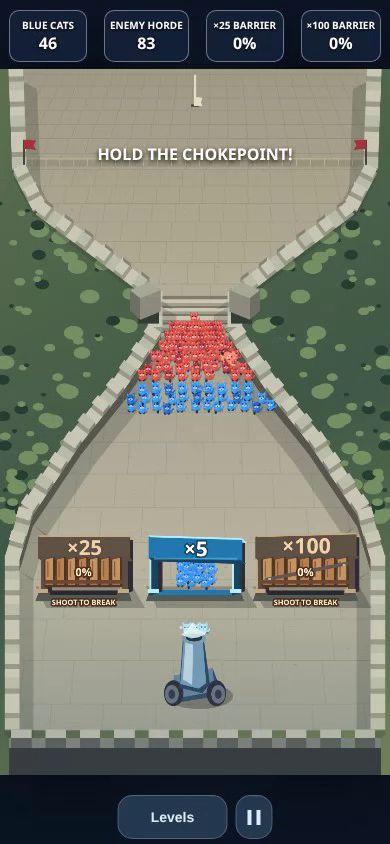
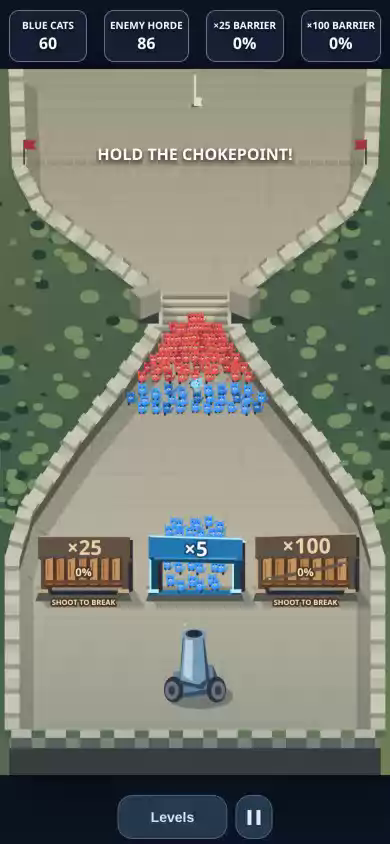
Document army scale measurements and strengthen portrait validation

diff --git a/scripts/profile-army-individuality.js b/scripts/profile-army-individuality.js
@@ -1,9 +1,15 @@
 import { chromium, webkit } from "@playwright/test";
 import { mkdir } from "node:fs/promises";
-import { join } from "node:path";
+import { join, resolve } from "node:path";
+import { pathToFileURL } from "node:url";
+import { scaleCandidate } from "./army-scale-candidates.js";
 
 const engine = process.argv[2] === "webkit" ? webkit : chromium;
 const output = process.argv[3];
+const candidate = process.env.PROFILE_CANDIDATE;
+const candidateLevels = candidate
+  ? (await import(pathToFileURL(resolve(process.env.PROFILE_BASELINE, "src/levels.js")))).LEVELS
+  : null;
 const viewport = { width: 390, height: 844 };
 const executablePath = engine === chromium ? process.env.CHROMIUM_PATH : undefined;
 const browser = await engine.launch({ executablePath });
@@ -12,8 +18,10 @@ try {
   const page = await browser.newPage({ viewport, isMobile: true, hasTouch: true, deviceScaleFactor: 2 });
   await page.goto(process.env.SIEGE_URL ?? "http://127.0.0.1:4173");
   const report = {};
-  for (let level = 1; level <= 4; level++) {
-    const setup = async number => {
+  const levels = (process.env.PROFILE_LEVELS ?? "1,2,3,4").split(",").map(Number);
+  for (const level of levels) {
+    const override = candidate ? scaleCandidate(candidateLevels[level - 1], candidate) : null;
+    const setup = async ({ number, override }) => {
       const [{ createGame }, { createMotion }, { createRenderer }, { createDualRenderer },
         { createDualBattlefield }, { createState }, { LEVELS }, { createAim }, { dualAim },
         { purrapultAim }, { meowmenAim }] = await Promise.all([
@@ -22,7 +30,7 @@ try {
         import("/src/levels.js"), import("/tests/helpers/strategies.js"), import("/tests/helpers/dual-strategies.js"),
         import("/tests/helpers/purrapult.js"), import("/tests/helpers/meowmen.js"),
       ]);
-      const level = LEVELS[number - 1];
+      const level = override ?? LEVELS[number - 1];
       const canvas = document.querySelector("#game");
       document.querySelector("#menu").hidden = true;
       const dt = 1 / 60;
@@ -31,7 +39,7 @@ try {
       let renderer, state, lanes, step, stage;
       if (dual) {
         state = createState(level);
-        const game = createDualBattlefield({ state, onEvent: (event, sim) => renderer.receive(event, sim) });
+        const game = createDualBattlefield({ state, level, onEvent: (event, sim) => renderer.receive(event, sim) });
         renderer = createDualRenderer(state, canvas, game);
         game.reset();
         ({ lanes } = game.state);
@@ -91,13 +99,17 @@ try {
         },
       };
     };
-    await page.evaluate(setup, level);
+    await page.evaluate(setup, { number: level, override });
     const checkpoints = await page.evaluate(() => window.scaleProfile.checkpoints());
+    if (process.env.PROFILE_PROGRESS) console.error(`${engine.name()} level ${level}, ${checkpoints.length} checkpoints`);
     await page.reload();
-    await page.evaluate(setup, level);
+    await page.evaluate(setup, { number: level, override });
     report[level] = {};
     let tick = 0;
+    const included = process.env.PROFILE_CHECKPOINTS?.split(",");
     for (const checkpoint of checkpoints.sort((a, b) => a.tick - b.tick)) {
+      if (included && !included.includes(checkpoint.name)) continue;
+      if (process.env.PROFILE_PROGRESS) console.error(checkpoint.name);
       report[level][checkpoint.name] = await page.evaluate(async advance => {
         const { step, state, lanes, renderer, canvas, stage } = window.scaleProfile;
         for (let i = 0; i < advance; i++) step();
@@ -132,7 +144,11 @@ try {
         }));
         const frameMs = [], canvasMs = [];
         await new Promise(done => {
-          let last;
+          let last, handle;
+          const timeout = setTimeout(() => {
+            cancelAnimationFrame(handle);
+            done();
+          }, 2500);
           function frame(now) {
             const drawStart = performance.now();
             renderer.draw();
@@ -141,12 +157,16 @@ try {
               canvasMs.push(performance.now() - drawStart);
             }
             last = now;
-            if (frameMs.length < 24) requestAnimationFrame(frame);
-            else done();
+            if (frameMs.length < 24) handle = requestAnimationFrame(frame);
+            else {
+              clearTimeout(timeout);
+              done();
+            }
           }
-          requestAnimationFrame(frame);
+          handle = requestAnimationFrame(frame);
         });
         function quantiles(values) {
+          if (!values.length) return [null, null];
           values.sort((a, b) => a - b);
           return [0.5, 0.95].map(q => +values[Math.floor(q * (values.length - 1))].toFixed(2));
         }
@@ -154,14 +174,14 @@ try {
           { blue: lane.blueTotal, red: lane.redTotal, front: lane.front }]));
         const memory = performance.memory?.usedJSHeapSize ?? null;
         return { time: state.t, mode: state.mode, ...stage(), active, represented,
-          frameMs: quantiles(frameMs), canvasMs: quantiles(canvasMs), usedJSHeapSize: memory };
+          samples: frameMs.length, frameMs: quantiles(frameMs), canvasMs: quantiles(canvasMs), usedJSHeapSize: memory };
       }, checkpoint.tick - tick);
       tick = checkpoint.tick;
       if (output && ["opening", "first-reinforcement", "peak", "outcome", "phalanx", "encirclement"].includes(checkpoint.name))
-        await page.screenshot({ path: join(output, `level-${level}-${checkpoint.name}.png`) });
+        await page.screenshot({ scale: "css", path: join(output, `level-${level}-${checkpoint.name}.png`) });
     }
   }
-  console.log(JSON.stringify({ browser: engine.name(), version: browser.version(), viewport, report }, null, 2));
+  console.log(JSON.stringify({ browser: engine.name(), version: browser.version(), viewport, candidate, report }, null, 2));
 } finally {
   await browser.close();
 }

diff --git a/tests/browser/playthrough.spec.js b/tests/browser/playthrough.spec.js
@@ -54,8 +54,8 @@ test("balanced reinforcements reverse the battle twice and clear the field", asy
     expect(s.work[0]).toBeGreaterThan(0);
     expect(s.work[1]).toBe(0);
   }
-  await expect(page.locator("#gate99")).toHaveText("OPEN");
-  await expect(page.locator("#gate999")).toHaveText("0%");
+  await expect(page.locator("#gate25")).toHaveText("OPEN");
+  await expect(page.locator("#gate100")).toHaveText("0%");
   const atUnlock = s.front;
   milestones.push({ event: "×25 unlocked", ...battlefield(s) });
 
@@ -63,7 +63,7 @@ test("balanced reinforcements reverse the battle twice and clear the field", asy
   for (let i = 0; i < 9; i++) {
     s = await hold(90, 1850);
     if (i === 1) {
-      expect(s.front).toBeLessThan(atUnlock - 25);
+      expect(s.front).toBeLessThan(atUnlock + 10);
       expect(s.squads.some((q) => q.mult === 25)).toBe(true);
       milestones.push({ event: "×25 reverses the battle", ...battlefield(s) });
       await page.screenshot({
@@ -87,9 +87,9 @@ test("balanced reinforcements reverse the battle twice and clear the field", asy
     expect(s.work[1]).toBeGreaterThan(damage);
     if (s.gates[2].open) break;
   }
-  await expect(page.locator("#gate999")).toHaveText("OPEN");
+  await expect(page.locator("#gate100")).toHaveText("OPEN");
   expect(s.finalActivated).toBe(false);
-  expect(s.front).toBeGreaterThan(milestones[1].front + 100);
+  expect(s.front).toBeGreaterThan(milestones[1].front + 55);
   expect(s.redTotal).toBeGreaterThan(milestones[1].red * 2);
   const frontBefore = s.front;
   milestones.push({ event: "×100 unlocked", ...battlefield(s) });
@@ -119,7 +119,7 @@ test("balanced reinforcements reverse the battle twice and clear the field", asy
   await page.clock.runFor(17000);
   s = await snapshot(page);
   expect(s.front).toBeLessThan(frontBefore - 130);
-  expect(s.blueTotal).toBeGreaterThan(10000);
+  expect(s.blueTotal).toBeGreaterThan(4000);
   expect(s.redTotal).toBeLessThan(arrival.redTotal * 0.75);
   expect(s.redTotal).toBeGreaterThan(0);
   milestones.push({ event: "×100 counterattack", ...battlefield(s) });
@@ -213,7 +213,7 @@ test("exclusive ×5 initially advances before the horde overtakes it", async ({
   expect(pressure.front).toBeGreaterThan(initial.front + 50);
   expect(pressure.redTotal).toBeGreaterThan(early.redTotal * 2);
   expect(pressure.work).toEqual([0, 0]);
-  await expect(page.locator("#gate99")).toHaveText("0%");
+  await expect(page.locator("#gate25")).toHaveText("0%");
   await page.screenshot({ path: testInfo.outputPath("phase-1-retreat.png") });
 
   await advanceUntil(page, (s) => s.mode === "end", 35);

diff --git a/tests/army-visual.test.js b/tests/army-visual.test.js
@@ -173,3 +173,39 @@ test("30, 60 and 150 individual cats expand the formation at mobile scale", () =
     previousDepth = depth;
   }
 });
+
+test("one extra cat keeps the earlier individual slots near their prior positions", () => {
+  const state = createState();
+  const { figures, draws } = painter();
+  const { contact } = createMotion();
+  state.mode = "playing";
+  state.redTotal = 0;
+  state.blueTotal = 60;
+  figures.blueArmy(state, 0, contact, []);
+  const before = draws.splice(0).reverse();
+  state.blueTotal++;
+  figures.blueArmy(state, 0, contact, []);
+  const after = draws.reverse();
+  for (const [index, slot] of before.entries()) {
+    assert.ok(Math.abs(slot.x - after[index].x) < 1);
+    assert.ok(Math.abs(slot.y - after[index].y) < 2);
+  }
+});
+
+test("overlapping final waves keep older columns visible using bounded draw calls", () => {
+  const state = createState();
+  const { figures, draws } = painter();
+  const { contact } = createMotion();
+  state.mode = "playing";
+  state.blueTotal = 6000;
+  state.squads = Array.from({ length: 36 }, (_, index) => ({
+    x: 329, y: 415, entryY: 565, count: 100, mult: 100, slot: index % 3 - 1,
+    phase: index * 0.1, marchTime: 1.15,
+  }));
+  const before = structuredClone(state);
+  figures.setClock(2);
+  figures.blueArmy(state, 0, contact, []);
+  assert.ok(draws.length < 700);
+  assert.ok(draws.reduce((sum, draw) => sum + draw.represented, 0) > 1000);
+  assert.deepEqual(state, before);
+});

diff --git a/tests/army-movement.test.js b/tests/army-movement.test.js
@@ -130,14 +130,14 @@ test("a receiving slot beyond an obstructed gate uses a complementary fade", () 
   assert.ok(tail.join.started[0] >= 2.26);
 });
 
-test("overlapping ×99 and ×999 handoffs stay bounded and reset when leaving a level", () => {
+test("overlapping ×25 and ×100 handoffs stay bounded and reset when leaving a level", () => {
   const motion = createMotion();
   const state = createState();
   state.mode = "playing";
   state.blueTotal = 1000;
   step(motion, state, 0);
   for (let i = 0; i < 28; i++) {
-    const q = wave(i % 2 ? 99 : 999, i % 2 ? 90 : 329);
+    const q = wave(i % 2 ? 25 : 100, i % 2 ? 90 : 329);
     state.blueTotal += q.count;
     motion.receive("arrival", 0.1, q, state.front);
   }
@@ -145,7 +145,7 @@ test("overlapping ×99 and ×999 handoffs stay bounded and reset when leaving a 
   const occupied = new Set();
   assert.ok(motion.tails.length <= 12);
   for (const { join } of motion.tails) {
-    assert.ok(join.fieldCount + join.reserveCount <= 24);
+    assert.ok(join.fieldCount + join.reserveCount <= 32);
     for (const [prefix, start, length] of [
       ["f", join.field, join.fieldCount], ["r", join.reserve, join.reserveCount],
     ]) {

diff --git a/index.html b/index.html
@@ -27,8 +27,8 @@
         <div class="stat">BLUE CATS<b id="blueCount">0</b></div>
         <div class="stat">ENEMY HORDE<b id="redCount">0</b></div>
         <div id="barrierHud" class="barrier-hud">
-          <div class="stat">×25 BARRIER<b id="gate99">0%</b></div>
-          <div class="stat">×100 BARRIER<b id="gate999">0%</b></div>
+          <div class="stat">×25 BARRIER<b id="gate25">0%</b></div>
+          <div class="stat">×100 BARRIER<b id="gate100">0%</b></div>
         </div>
         <div id="siegeHud" hidden>
           <div class="stat">BLUE ARMY<b id="siegeBlueCount">0</b></div>
@@ -53,7 +53,7 @@
             move your cannon. It fires automatically — never tap to shoot.<br /><br />🔵
             <strong>×5</strong> holds the horde.<br />🟠
             <strong>×25</strong> unlocks when your cats break its barricade.<br />🟡
-            <strong>×100</strong> takes longer, but wins the war.<br /><br /><strong
+            <strong>×100</strong> takes longer and sends the largest wave.<br /><br /><strong
               >YOU must break the barricades:</strong
             >
             aim at the locked ×25 or ×100 gate to damage its wooden barrier.

diff --git a/tests/browser/meowmen.spec.js b/tests/browser/meowmen.spec.js
@@ -14,15 +14,15 @@ test("Meowmen selection, defeat, replay, victory and progress on mobile", async 
   await select(LEVEL_THREE).click();
 
   await aim(LEVEL_THREE.support.x);
+  await advanceUntil(page, (s) => s.danger.flashUntil > s.t, 4, 100);
+  await expect(page.locator("#danger")).toContainText("AIM AT ×5");
   const flight = await advanceUntil(page, (s) => s.support.shot !== null, 5, 100);
   await expect(page.locator("#banner")).toHaveText("MEOWMEN BARRAGE STARTED!");
   expect(flight.support.shot).toMatchObject({
     originX: LEVEL_THREE.support.x, originY: LEVEL_THREE.support.y, arrows: 6,
   });
   await advanceUntil(page, (s) => s.support.impacts >= 3, 4, 100);
-  await advanceUntil(page, (s) => s.danger.flashUntil > s.t, 12, 100);
-  await expect(page.locator("#danger")).toContainText("AIM AT ×5");
-  const defeated = await advanceUntil(page, (s) => s.mode === "end", 10, 200);
+  const defeated = await advanceUntil(page, (s) => s.mode === "end", 25, 200);
   expect(defeated.support.damage).toBeGreaterThan(0);
   expect(defeated.support.shot).toBeNull();
   await expect(page.locator("#resultLevel")).toHaveText("Level 3 · The Meowmen");

diff --git a/src/main.js b/src/main.js
@@ -276,7 +276,7 @@ const siegeHud = ["siegeBlueCount", "siegeRedCount", "siegeLeft", "siegeRight"].
 function updateSiegeHud() {
   const { blue, red } = siegePopulation(dual.state);
   const { west, east } = siegeStatus(dual.state);
-  const values = [compactArmy.format(Math.floor(blue)), compactArmy.format(Math.ceil(red)), west, east];
+  const values = [compactArmy.format(Math.ceil(blue)), compactArmy.format(Math.ceil(red)), west, east];
   siegeHud.forEach((node, index) => {
     if (node.textContent !== values[index]) node.textContent = values[index];
   });

diff --git a/scripts/capture-arcade-combat.js b/scripts/capture-arcade-combat.js
@@ -37,7 +37,7 @@ async function capture(browser, plan) {
     await page.locator("#chooseLevel").click();
     await page.locator(`[data-level="${plan.id}"]`).click();
     const box = await page.locator("#game").boundingBox();
-    await page.screenshot({ path: resolve(output, plan.name + "-opening.png") });
+    await page.screenshot({ path: resolve(output, plan.name + "-opening.png"), scale: "css" });
     const client = await context.newCDPSession(page);
     let result;
     let showedSupport = false;

diff --git a/tests/browser/purrapult.spec.js b/tests/browser/purrapult.spec.js
@@ -120,8 +120,8 @@ test("artillery-assisted defense wins Level 2 and persists its completion", asyn
       await mark("impact", "06-yarn-impact.png", s);
     }
     if (
-      s.finalActivated &&
-      s.support.damage > 18000 &&
+      s.gates[1].open &&
+      s.support.damage > 700 &&
       s.front < 285 &&
       !seen.has("counterattack")
     ) {

diff --git a/docs/army-scale-individuality.md b/docs/army-scale-individuality.md
@@ -33,7 +33,7 @@ We reused cannon policies and recorded fixed-step outcomes on all four levels. T
 | 1 · Balanced C | Win 87.75 s / 122,525 | Win 93.60 s / 24,337 | Win 29.45 s / 735 | Win 93.60 s / 24,337 |
 | 2 · Artillery first | Win 80.78 s / 90,969 | Win 52.63 s / 2,039 | Win 26.57 s / 222 | Win 52.63 s / 2,039 |
 | 3 · Balanced | Win 84.65 s / 131,340 | Win 95.73 s / 29,692 | Win 31.90 s / 533 | Win 95.73 s / 29,692 |
-| 4 · Adaptive with missed shots | Win 103.23 s / 115,649 east | Win 67.73 s / 1,901 east | Win 69.27 s / 662 east | Win about 70 s / about 2,000 east |
+| 4 · Adaptive with missed shots | Win 103.23 s / 115,649 east | Win 67.73 s / 1,901 east | Win 69.27 s / 662 east | Win 69.47 s / 1,910 east |
 
 - **The Last Stand.** Starter camping still loses. The aggressive candidate allows it to win in 22.62 s. Sustained ×25 can now win if used early enough. Diverting shots toward ×100 can expose the line, and the balanced C policy uses the arriving ×100 wave to reverse a late retreat. In that replay the first and last barricades open at 17.12 and 56.87 s. Supply closes at 92.25 s. Blue and red melee losses average about 169 and 153 per second, down from 2,055 and 1,475.
 - **The Purrapult.** The area pocket still limits casualties on first contact, and its flight and reload remain the same. The impact animation uses force relative to the weapon's damage budget. Artillery first clears the route with one gate upgrade and about 1,538 artillery casualties. Gates first can win with both upgrades. Shooting the crew barricade and ignoring the infantry still loses.
@@ -60,7 +60,42 @@ The camera, seam, flight and handoff affect the number of complete atlas draws o
 | --- | --- |
 | ![The first starter files reach the blue formation](evidence/army-scale-individuality/selected-reinforcement.png) | ![Blue horde fills the corridor in the victory advance](evidence/army-scale-individuality/selected-victory.png) |
 
+![East breakthrough as the flank reaches the west rear](evidence/army-scale-individuality/selected-encirclement.png)
+
 The recordings use public level selection and cannon drag controls. The early HUD in both opening screenshots includes the first volleys already on the way. The selected victory still shows in-transit cats in the HUD. The clips and timing JSON are kept outside Git.
+
+## Rendering and performance measurements
+
+The opening count can be checked directly in both engines. In Level 1 the original red atlas tile averaged 15 CSS pixels wide and occupied 19 vertical and 17 horizontal bins. The new red tile averages 17 pixels, with eight vertical and 13 horizontal bins. Summed atlas area falls from 15.8% to 7.0% of the viewport. The blue opening uses 34 tiles, four vertical and 17 horizontal bins, and 3.3% viewport area. These are occupied position bins including movement, at an eight-world-unit row interval and a ten-unit column interval. They estimate screen coverage even when the visible ranks stagger or overlap.
+
+| Opening | Blue active / individual / silhouettes | Red active / individual / silhouettes |
+| --- | ---: | ---: |
+| Level 1, baseline | 0 / 0 / 0 | 2,225 / 231 / 232 |
+| Level 1, selected | 34 / 34 / 0 | 78 / 78 / 0 |
+| Level 4, baseline | 915 / 288 / 233 | 1,230 / 288 / 313 |
+| Level 4, selected | 86 / 86 / 0 | 173 / 173 / 0 |
+
+At the selected Level 1 peak, batching older overlapping reinforcement files preserves 2,387 blue impressions and brings standalone blue atlas draws from 1,775 in the unbatched prototype to 431. The remainder are reserve or travelling silhouettes. The 23,000–30,000 peak armies in the balanced corridor replays still require abstraction. The redesigned scale spends its larger individual sprite budget on the opening and uses the stamp atlas for the dense rear and older marching files.
+
+The profiling reports include active populations, visible sprite submissions, silhouette counts, atlas size, occupied bins and density at each reached checkpoint. The opening counts for Levels 2 and 3 also include their two- and six-cat support crews in the blue draw totals. At later checkpoints the draw totals include combat reactions and transit. Use the simulation report for the active-force representation ratio.
+
+The paired runs below use Chromium 156 and WebKit 26 on the shared Linux host. Each cell gives Canvas p50/p95 followed by animation-frame p50/p95 in milliseconds. WebKit produced fewer samples before the capture window expired. Its Level 4 opening produced fewer than four samples per build, so that row omits those timing estimates.
+
+| Scene | Chromium M22 | Chromium M23 | WebKit M22 | WebKit M23 |
+| --- | ---: | ---: | ---: | ---: |
+| Level 1 opening | 3.2/8.8 · 49.9/83.4 | 1.6/13.3 · 49.9/83.3 | 4/13 · 210/302 | 2/36 · 251/303 |
+| First reinforcement | 8.3/15.4 · 50/100 | 7.8/26.3 · 100/150 | 3/13 · 224/296 | 18/36 · 336/354 |
+| Near the literal limit | 8.3/24.2 · 50/66.7 | 6.4/14.5 · 66.6/150 | 3/13 · 197/296 | 12/36 · 323/338 |
+| Transition to reserve ranks | 7.6/41.5 · 50/83.3 | 5.8/35.9 · 66.6/133.4 | 6/13 · 201/228 | 12/14 · 297/377 |
+| Largest gate wave | 11.7/40.4 · 66.7/133.4 | 6.2/26.6 · 83.3/133.3 | 12/17 · 327/396 | 4/44 · 355/398 |
+| Level 1 peak | 21.9/68.9 · 216.7/400 | 4.1/22.9 · 83.4/200 | 42/64 · 310/358 | 10/22 · 372/424 |
+| Level 4 opening | 5.2/8 · 33.4/100 | 1/3.6 · 16.7/33.4 | — | — |
+| Phalanx deployment | 3.3/16.2 · 83.4/166.6 | 7.4/42.3 · 50/100 | 19/20 · 408/495 | 8/14 · 204/284 |
+| Encirclement | 9.9/39.2 · 66.6/150.1 | 6.5/15.3 · 50/66.7 | 28/42 · 399/554 | 3/12 · 284/344 |
+
+The paired runs show less Canvas work at peak, and frame intervals vary substantially in both builds under shared-host load. An earlier, less contended Chromium run without march batching measured 16.7/16.8 ms in the new Level 1 opening and 33.3/50 ms at peak. The aggressive candidate's much smaller peak cost 1.1/6.3 ms of Canvas time, against 7.7/29.3 ms for the moderate candidate in the candidate runs. These observations informed the reserve batching decision. Physical Safari performance is open.
+
+Chromium exposed an approximate JavaScript heap size, with about 4.1 MB at the new Level 1 opening and 6.6 MB at peak in the full report. The matching baseline phases were 3.7 and 6.7 MB. WebKit did not expose that field. These samples cover the JavaScript heap and leave Canvas surfaces, atlases and GPU allocations unmeasured.
 
 ## Reproduction
 
@@ -77,4 +112,4 @@ npm test
 npm run test:browser
 ```
 
-Run `npm run dev` in a second terminal. Use `node scripts/capture-arcade-combat.js test-results/individuality a d f` to record Level 1, Level 4 and the support clips. Use `node scripts/profile-army-individuality.js chromium test-results/individuality-stills` and substitute `webkit` for the second engine. Set `SIEGE_URL` to point the profiler at another checkout. It samples 24 steady draws per reached checkpoint at device pixel ratio 2, with the replay frozen for each sample to keep the workload comparable. The timings measure Canvas draw submission and animation callback intervals. Atlas bounds include transparent margins. Counts include visible marching and reacting cats, and the support crew. Density estimates sum atlas bounds and therefore include overlaps. A physical iPhone Safari playtest is still the product-performance gate.
+Run `npm run dev` in a second terminal. Use `node scripts/capture-arcade-combat.js test-results/individuality a d f` to record Level 1, Level 4 and the support clips. Use `node scripts/profile-army-individuality.js chromium test-results/individuality-stills` and substitute `webkit` for the second engine. Set `SIEGE_URL` to point the profiler at another checkout. To profile a candidate with the current renderer, set `PROFILE_CANDIDATE=moderate` or `PROFILE_CANDIDATE=aggressive` and `PROFILE_BASELINE=/tmp/siegedolls-m22`. Use `PROFILE_CHECKPOINTS=opening,peak` for a short comparison. It samples up to 24 steady draws per reached checkpoint at device pixel ratio 2, with the replay frozen for each sample to keep the workload comparable. The timings measure Canvas draw submission and animation callback intervals. Atlas bounds include transparent margins. Counts include visible marching and reacting cats, and the support crew. Density estimates sum atlas bounds and therefore include overlaps. A physical iPhone Safari playtest is still the product-performance gate.

diff --git a/README.md b/README.md
@@ -14,7 +14,7 @@ SiegeDolls is a small, ad-free, one-finger cat siege game with two playable leve
 
 ## Choose a level
 
-Open **Choose level** from the main menu to play **The Last Stand** or **The Purrapult** immediately. **Defend the Castle** launches your last selected level. Use **Levels** below the battlefield or **Choose level** on the result screen to switch. **Try Again** replays the current battle. Completion markers track wins and every implemented level is available from the start.
+Open **Choose level** from the main menu to play any of the four levels immediately. **Defend the Castle** launches your last selected level. Use **Levels** below the battlefield or **Choose level** on the result screen to switch. **Try Again** replays the current battle. Completion markers track wins and every implemented level is available from the start.
 
 ## Level 1
 
@@ -24,7 +24,7 @@ The red horde starts larger and recruits faster as the siege goes on. Switch bet
 2. **Left ×25 barricade:** Aim your cannon directly at the wood barrier instead of producing reinforcements. Each hit damages it, and a progress indicator shows your work. Once broken, fire through the ×25 gate to reclaim ground before the horde surges again.
 3. **Right ×100 barricade:** Takes more hits to break. Again you must personally aim at the wood, temporarily sacrificing reinforcements. Once open, send three cats through the gate to produce a **300-cat** counterattack per volley.
 
-Cats do not instantly teleport to the front. Each gate creates a visible **marching formation** that moves toward the enemy; their combat strength is added when the formation reaches combat. Large squads render representative soldiers with their total still accounted for in the battle simulation.
+Cats do not instantly teleport to the front. Each gate creates a visible **marching formation** that moves toward the enemy; their combat strength is added when the formation reaches combat. Large squads render representative soldiers with their total still accounted for in the battle simulation. [Army scale and rendering](docs/army-scale-individuality.md)
 
 **Victory** comes when your blue army cuts off the enemy supply route and eliminates the last invader. A short celebration shows blue taking the yard. **Defeat** comes when the red frontline reaches the castle.
 

diff --git a/AGENTS.md b/AGENTS.md
@@ -4,7 +4,7 @@ This file applies to repository work by coding agents. Keep it concise; use link
 
 ## Product guardrails
 
-SiegeDolls is a mobile-first, one-finger Canvas arcade strategy game. The horizontal cannon automatically fires three kittens; players decide when to reinforce through ×20/×99/×999 gates versus spending shots on barricades or support unlocks. Preserve readable army growth, tactical consequences, playful miniature-cat presentation, quick replayability, and freedom to select any implemented level. No monetization, grinding, or extra controls without explicit scope.
+SiegeDolls is a mobile-first, one-finger Canvas arcade strategy game. The horizontal cannon automatically fires three kittens; players decide when to reinforce through ×5/×25/×100 gates versus spending shots on barricades or support unlocks. Preserve readable army growth, tactical consequences, playful miniature-cat presentation, quick replayability, and freedom to select any implemented level. No monetization, grinding, or extra controls without explicit scope.
 
 The **simulation owns** populations, arrivals, casualties, pressure, frontline, artillery damage, and victory/defeat. The renderer may interpolate and dramatize these events but must not create combat-effective troops, fictional losses, teleporting reinforcements, or invisible enemies. Large armies use bounded representative sprites—not per-cat combat agents.
 
